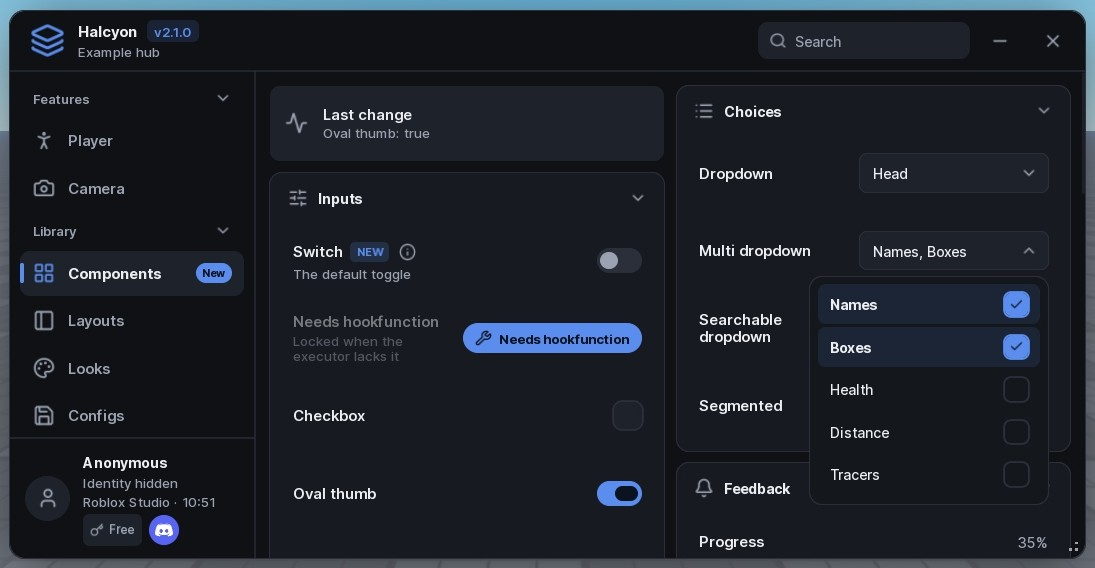
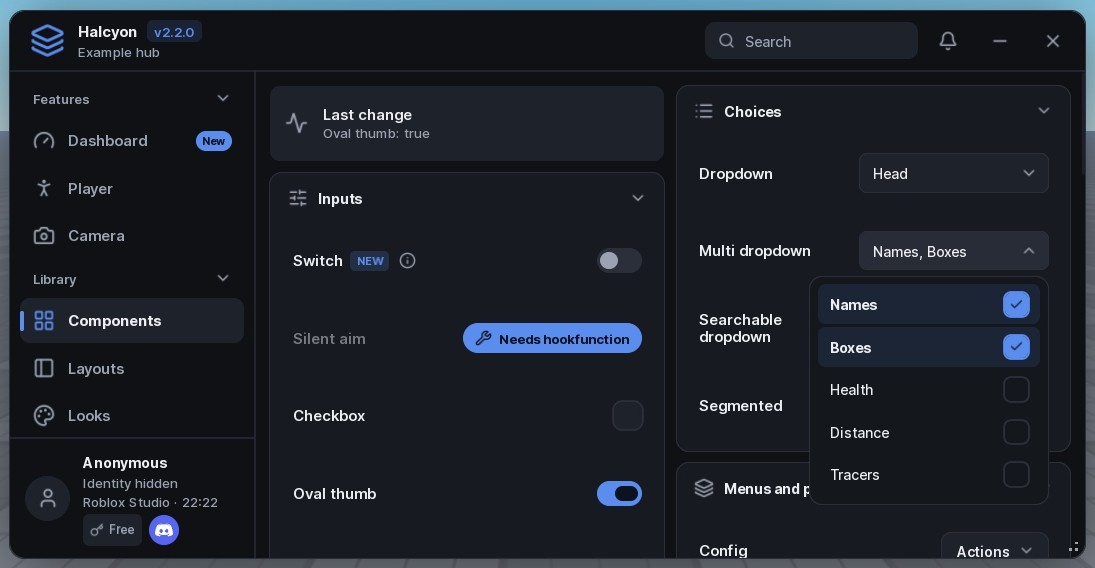
Document 2.2 and retake the screenshots
README gains a table of every switch, a section on header styles, and
links to each icon pack's site so names are easy to look up. The API
reference, styles page and LLM files cover the new elements, sheets,
the quick bar and the notice changes. The hero shot is now the
Dashboard tab, and there is a new one of the Sidebar header.

diff --git a/README.md b/README.md
@@ -1,8 +1,8 @@
 # Halcyon
 
-A UI library for Roblox script hubs. One file, loaded with `loadstring`, that gives you a window with tabs, sections and 27 controls, a named look for every one of them, presets, a key system with tiers, saved configs, sixteen themes the player can extend, six icon packs, and a layout that reflows from a desktop monitor down to a phone.
+A UI library for Roblox script hubs. One file, loaded with `loadstring`, that gives you a window with tabs, sections and 37 controls, a named look for every one of them, presets, a key system with tiers, saved configs, sixteen themes the player can extend, six icon packs, and a layout that reflows from a desktop monitor down to a phone. Every built-in part turns on or off with `true` or `false`.
 
-![The Halcyon example hub](assets/hero.jpg)
+![The Halcyon example hub on its Dashboard tab](assets/hero.jpg)
 
 Docs and a tour of every look: https://scriptsfordays.github.io/Halcyon-Docs/ (the site has [its own repo](https://github.com/ScriptsForDays/Halcyon-Docs), so this one stays all Luau).
 
@@ -15,6 +15,8 @@ loadstring(game:HttpGet("https://raw.githubusercontent.com/ScriptsForDays/Halcyo
 ```
 
 The example opens on its key prompt. **Keyless** needs no key; the demo keys are `HALCYON-FREE` and `HALCYON-PAID`.
+
+No executor to hand? The same example runs in your browser at https://scriptsfordays.github.io/Halcyon-Docs/play.html. It runs the real library code in a Luau runtime and draws it with HTML, so spacing and fonts can differ a little from Roblox.
 
 ## Use it
 
@@ -61,10 +63,12 @@ Window:LoadAutoload() -- loads the config the player marked, if any
 | | |
 |---|---|
 | **Looks** | Every control has named looks: 10 toggles, 7 sliders, 8 buttons with 7 effects, 4 inputs, 4 dropdowns, 7 sections, 6 tab markers, 4 window surfaces, 7 open animations, 10 notices. Pick per element, per window, or with a preset (Classic, Minimal, Glass, Neon, Compact) |
-| **Controls** | Button (hold to confirm, press twice, loading and done states), Buttons in a row, Toggle, Slider (prefix, percent, ticks, range), Dropdown (icons, descriptions, headings, player lists, chips, inline), Radio, Checklist, Chips, Tiles, Input (password, multi-line, counter, clear), Keybind (mode picker), ColorPicker (palette, recent, copy), DatePicker, Segmented, Stepper, Rating, Progress, Status, Countdown, Table, Accordion, Paragraph, callout Labels, Divider, Code, Image, Space |
-| **Layout** | Four navigation styles, tabs inside sections, a header switch per section, sections that scroll past a height, `ShowWhen` dependencies, page headers and notices, one or two columns, collapsible sections and sidebar groups, three ways to minimise, edge snapping |
+| **Controls** | Button (hold to confirm, press twice, loading and done states), Buttons in a row, MenuButton, Toggle, Slider (prefix, percent, ticks, range), Dropdown (icons, descriptions, headings, player lists, chips, inline), List (pick, multi-pick, search, drag to reorder), Tags, Radio, Checklist, Chips, Tiles, Input (password, multi-line, counter, clear), Keybind (mode picker), ColorPicker (palette, recent, copy), DatePicker, Segmented, Stepper, Rating, Progress, Status, Countdown, Table, Accordion, Paragraph, callout Labels, Divider, Code, Image, Space, Link |
+| **Dashboards** | Stat tiles and grids, live line, area and bar graphs, a log panel with level filters, a player list with your own row buttons, image banners |
+| **Layout** | Four navigation styles, four header styles (one puts a big logo above the sidebar), tabs inside sections, a header switch per section, two or three controls on one line, side sheets, sections that scroll past a height, page headers and notices, one or two columns, collapsible sections and sidebar groups, three ways to minimise, edge snapping |
+| **Switches** | Every built-in part on or off with `true` or `false`, live with `Window:Set`; any tab, section or row hidden, greyed or tied to another control with `Visible`, `Disabled`, `ShowWhen` and `EnableWhen` |
 | **Key system** | Tiers such as Free and Paid, or your own; listed keys, your own validator or your own server; ad-service confirmation for free keys; saved keys with an expiry countdown; rows and whole sections locked to a tier or to paid keys |
-| **Feedback** | Ten notice looks with buttons and an optional chime, hover tips on any row, one-time spotlights on new features, dialogs with countdown buttons, a Ctrl+K command palette, a watermark and keybind list in several looks |
+| **Feedback** | Ten notice looks with buttons and an optional chime; notices pause while hovered, swipe away, and keep a history behind a bell. Hover tips on any row, right-click menus on any row, one-time spotlights on new features, dialogs with countdown buttons, a Ctrl+K command palette, a watermark, a keybind list and a floating quick bar |
 | **For hub code** | A real-progress loading screen, a What's new card shown once per version, an About section, empty and error states, a lock screen, row badges and info tips, `Requires`, tab badges, a config section, a two-step unload |
 | **Saving** | Configs for every flagged control, autoload, and the player's own interface choices |
 | **Personalisation** | Players pick font, text size, corners, spacing, window transparency, notice position, a gradient accent and colour-blind-friendly status colours, and build, save and share their own themes |
@@ -74,30 +78,82 @@ Window:LoadAutoload() -- loads the config the player marked, if any
 
 ![The Components tab with a multi dropdown open](assets/controls.jpg)
 
-## Turning things on and off
+## Every switch
 
-Most features are one option. Leave it out for the default, or set it to `false`:
+Each built-in part is one option. Leave it out for the default, set it to `false` to leave the part out, or `true` to add it. Some take a table of settings in place of `true`.
+
+```lua
+local Window = Halcyon:CreateWindow({
+	Title = "My Hub",
+	Search = false,
+	Close = false,
+	NotificationCenter = true,
+	Watermark = true,
+	KeybindList = { Style = "Glass" },
+	SettingsTab = { Group = "Hub" },
+})
+
+Window:Set("Search", true) -- flip a switch while the hub runs
+print(Window:Get("Shadow")) --> true
+```
+
+| Switch | Default | What it controls |
+|---|---|---|
+| `Search` | on | The search box |
+| `Profile` | on | The profile card. A table sets its options |
+| `ShowVersion` | on | The version tag beside the title |
+| `Minimize` | on | The minimise button. `Minimizable` still works |
+| `Close` | on | The close button |
+| `Resize` | on | The resize grip. `Resizable` still works |
+| `Drag` | on | Dragging the window by its top bar |
+| `Shadow` | on | The soft shadow under the window |
+| `Tooltips` | on | Hover tips on rows |
+| `Animations` | on | Motion. Off is the same as reduced motion |
+| `Blur` | off | Blurs the game behind the open window. A number sets how much |
+| `CommandPalette` | off | Ctrl+K search over every tab and setting |
+| `NotificationCenter` | off | A bell in the top bar with an unread count and the notices so far |
+| `Watermark` | off | A small bar with the title, executor and time. A table picks the fields |
+| `KeybindList` | off | A list of bound keys and which are active |
+| `SettingsTab` | off | The ready-made settings tab |
+| `Snap` | off | Snapping the window to screen edges |
+| `OpenButton` | off | A round button to reopen the hidden window on desktop. Phones always get it |
+
+These are read when the window is made: `Icon`, `TopbarImage` and `Logo` (`false` leaves the picture out), `CollapsibleGroups`, `SliderTooltips`, `ToggleOutline`, `ConfirmUnload`, `LockShimmer`, `FocusRing` and `SavePreferences`. `Halcyon:GetSwitches()` lists every name `Window:Set` takes.
+
+Tabs, sections and rows have switches of their own:
+
+```lua
+Tab:Toggle({ Title = "Silent aim", Visible = false }) -- made, but hidden
+Tab:Slider({ Title = "Radius", Disabled = true }) -- greyed out
+Tab:Slider({ Title = "Fly speed", ShowWhen = "Fly" }) -- shown while the Fly toggle is on
+Tab:Dropdown({ Title = "Target", EnableWhen = { "Mode", "Manual" } }) -- usable while Mode is "Manual"
+Window:Tab({ Title = "Admin", ShowWhen = "AdminMode" })
+```
+
+`Window:SettingsTab({ Accent = false, Scale = false, Unload = false })` leaves rows out of the settings tab. The full list of options is in [docs/api.md](docs/api.md).
+
+## Headers and logos
+
+`HeaderStyle` decides where the title and logo go:
+
+| HeaderStyle | Layout |
+|---|---|
+| `Bar` (default) | The top bar: icon or picture, title, subtitle and version tag |
+| `Tall` | A taller top bar with a larger picture beside the title |
+| `Wordmark` | A wide logo image in place of the title words |
+| `Sidebar` | A big logo at the top of the sidebar with search under it, and no top bar. The logo drags the window |
 
 ```lua
 Halcyon:CreateWindow({
-	Title = "My Hub",
-	ShowVersion = false, -- no version tag beside the title
-	Shadow = false, -- no soft shadow under the window
-	ButtonEffect = "None", -- or "Sweep" (default), "Ripple", "Lift", "Glow"
-	Search = false, -- no search box
-	Profile = false, -- no profile card
-	Resizable = false, -- no resize grip
-	Minimizable = false, -- no minimise button
-	CollapsibleGroups = false, -- sidebar group headings do not fold
-	SliderTooltips = false, -- no value bubble while dragging a slider
-	ToggleOutline = false, -- no outline around a toggle on hover
-	SavePreferences = false, -- do not remember the player's interface choices
+	Title = "Butter",
+	HeaderStyle = "Sidebar",
+	Logo = "rbxassetid://1234567", -- any image source, or { Image, Text, Icon, Height }
 })
-
-Window:SettingsTab({ Accent = false, Scale = false, Unload = false }) -- leave rows out of the Settings tab
 ```
 
-The full list is in [docs/api.md](docs/api.md).
+Without an image, `Logo` draws the title as a large wordmark, so it works in Studio and on executors without `getcustomasset`. `Logo = false`, `Icon = false` and `TopbarImage = false` leave each picture out. On a narrow window the `Sidebar` style moves the logo back into a top bar. The example's **Looks** tab can rebuild the hub in each style.
+
+![The Sidebar header style, with the logo above the tabs](assets/headers.jpg)
 
 ## Looks and presets
 
@@ -119,7 +175,7 @@ The example's **Looks** tab lists every look with the line that turns it on, and
 
 | | |
 |---|---|
-| ![Toggle and slider looks](assets/looks-controls.jpg) | ![Dropdown looks and the panels list](assets/looks-choices.jpg) |
+| ![Toggle and slider looks](assets/looks-controls.jpg) | ![Dropdown looks, tabs inside a section and a header switch](assets/looks-choices.jpg) |
 | ![Glass preset with Mac controls](assets/looks-glass.jpg) | ![Island, Accent, Achievement and Snackbar notices](assets/looks-notices.jpg) |
 | ![Command palette](assets/looks-palette.jpg) | ![Personalise section](assets/looks-personalise.jpg) |
 | ![What's new card](assets/looks-changelog.jpg) | ![Loading screen](assets/looks-loading.jpg) |
@@ -183,15 +239,26 @@ Any `Icon` takes a Lucide name. Prefix a pack to use another set:
 ```lua
 Icon = "rocket" -- Lucide
 Icon = "solar:rocket-bold" -- Solar
-Icon = "geist:arrow-up" -- Geist; also craft:, gravity:, sfsymbols:
+Icon = "geist:arrow-up" -- Geist
 Icon = 123456789 -- your own asset id
 ```
 
-143 Lucide icons ship inside the library and draw at once. The full packs load on first use and are cached on disk. More in [docs/icons.md](docs/icons.md).
+Each set's own site is the place to find names:
+
+| Pack | Prefix | Browse it at |
+|---|---|---|
+| Lucide | none, or `lucide:` | [lucide.dev/icons](https://lucide.dev/icons/) |
+| Solar | `solar:` | [icones.js.org/collection/solar](https://icones.js.org/collection/solar). Add the style to the name: `home-bold`, `home-linear` |
+| Geist | `geist:` | [vercel.com/geist/icons](https://vercel.com/geist/icons) |
+| Gravity UI | `gravity:` | [gravity-ui.com/icons](https://gravity-ui.com/icons) |
+| Craft | `craft:` | [Craft Icons on Figma](https://www.figma.com/community/file/1415718327120418204). Add the style to the name: `rocket-stroke` |
+| SF Symbols | `sfsymbols:` | [Apple's SF Symbols app](https://developer.apple.com/sf-symbols/). Names are camelCase: `house.and.flag.fill` is `houseAndFlagFill` |
+
+The Roblox uploads of every pack come from [Footagesus/Icons](https://github.com/Footagesus/Icons), which lists the exact names in each one. 143 Lucide icons ship inside the library and draw at once; the rest of Lucide and the other packs load on first use and are cached on disk. More in [docs/icons.md](docs/icons.md).
 
 ## Phones and small screens
 
-Below 560 px of window width the sidebar becomes a strip of tabs, two columns fold into one, and wide controls drop under their titles. Touch targets grow to 40 px or more, and text never goes below 12 px. Nothing is hover-only.
+Below 560 px of window width the sidebar becomes a strip of tabs, two columns fold into one, wide controls drop under their titles, and the top-bar search folds into its magnifier until pressed. Touch targets grow to 40 px or more, and text never goes below 12 px. Nothing is hover-only: row menus open on a long press as well as a right-click.
 
 <img src="assets/mobile.jpg" alt="Halcyon at phone width" width="360">
 

diff --git a/docs/llm-guide.md b/docs/llm-guide.md
@@ -32,10 +32,18 @@ Only then pick controls. A hub with six features needs six or so rows plus setti
 | A key the player picks | Keybind, or a Toggle's `Keybind` add-on | The add-on keeps the key beside the feature it controls |
 | A colour | ColorPicker, or a Toggle's `Color` add-on | Same reason |
 | Read-only state | Status, Progress, Countdown, Label | Nothing to press, so don't make it look pressable |
+| Read-only figures (FPS, coins per hour) | Stat, or Stats for several | Big numbers read at a glance; labels in a row don't |
+| A number's recent history | Graph | A trend is the point; one number hides it |
+| What the hub did, line by line | Log | Notices vanish; a log can be scrolled, filtered and copied |
 | Read-only rows of data | Table | Labels in a loop can't sort or align |
+| Picks the player should see without opening anything, or an order | List (`Reorder` for priorities) | A Dropdown hides the choices; toggles per item waste rows |
+| Words the player types and keeps (a whitelist) | Tags | An Input holds one value; Tags hold a list |
+| Something to do to a player | PlayerList with `Actions` | Picking a name in a Dropdown and then pressing a button is two steps |
+| A few actions on one thing | MenuButton, or a row's `Menu` | Five buttons for one config crowd the section |
+| An address to open elsewhere | Link | Roblox can't open browsers; Link copies and says so |
 | Help and explanations | `Info` on the row, Accordion, Paragraph | Keep long text out of row descriptions |
 
-A row description is one short line about what the feature does or a caveat ("Applied again after every respawn"). If you need a paragraph, use `Info` or an Accordion.
+A row description is one short line about what the feature does or a caveat ("Kept after respawning"). If you need a paragraph, use `Info` or an Accordion. Don't write descriptions that explain the control itself ("Turn this on to enable flying"); the title and the switch already say it.
 
 ## 3. Organise tabs and sections
 
@@ -47,6 +55,8 @@ A row description is one short line about what the feature does or a caveat ("Ap
 - **Two columns:** use `Side = "Right"` when two sections are peers on the same tab. Don't use it to balance heights artificially; on phones everything stacks in creation order anyway, so put the more important section first.
 - **Order rows by frequency of use:** the main switch first, its tuning after it. Pair a feature's tuning with `ShowWhen` so options appear only when they apply (a Speed slider shown only while Fly is on). This keeps the page short without hiding anything permanently.
 - **Lock rather than remove.** If a feature needs a paid key or an executor function, keep the row and lock it (`PaidOnly`, `Tier`, `Requires`). Players then know it exists and why they can't use it.
+- **Short pairs share a line.** `Section:Group({ Columns = 2 })` fits two short toggles side by side (Auto farm / Auto sell). Keep sliders, lists and long titles on their own lines.
+- **A feature with many settings** can keep its main switch on the tab and its tuning in a `Window:Sheet`, opened by a button beside it, so the page stays short.
 
 ## 4. Decide what to save
 
@@ -96,7 +106,11 @@ Unless the developer asks for it, leave out:
 - `UpdateLog`, `Changelog` and `Loading`, unless the hub has releases or a real setup phase to show;
 - `CommandPalette` and `Snap`, unless the hub is large (Ctrl+K pays off at around 30+ rows);
 - Personalise and the theme builder, which are optional extras in Settings;
-- Watermark and KeybindList, which are overlays some players dislike. Offer them as Settings toggles rather than forcing them on.
+- Watermark and KeybindList, which are overlays some players dislike. Offer them as Settings toggles rather than forcing them on;
+- `NotificationCenter` and `Blur`, unless the hub sends notices worth reading later or the developer wants the blur;
+- a QuickBar, unless the hub targets phones and has two or three features players flip constantly.
+
+To remove a built-in part the developer doesn't want, set its switch to `false` (`Search = false`, `Close = false`) rather than hiding instances.
 
 ## 10. Examples of over-building, and the fix
 

diff --git a/docs/styles.md b/docs/styles.md
@@ -45,8 +45,9 @@ The example hub's **Looks** tab shows every look side by side, each with the lin
 | `Dropdown` | Box, Minimal, Chips, Inline | `Styles.Dropdown` |
 | `Keybind` | Chip, Keycap, Brackets | `Styles.Keybind` |
 | `Label` | Plain, Info, Success, Warning, Danger, Note | each label's `Style` |
-| `Section` | Card, Outlined, Flat, Glass, Accent, Inset, Header | `SectionStyle` |
-| `TabIndicator` | Bar, Pill, Underline, Dot, Glow, Fill | `TabIndicator` |
+| `Section` | Card, Outlined, Flat, Glass, Accent, Inset, Header, Panel | `SectionStyle` |
+| `TabIndicator` | Bar, Pill, Underline, Dot, Glow, Fill, Text | `TabIndicator` |
+| `Header` | Bar, Tall, Wordmark, Sidebar | `HeaderStyle` |
 | `Navigation` | Sidebar, Rail, Top, Dock | `TabStyle` |
 | `Window` | Solid, Glass, Gradient, Image | `WindowStyle` |
 | `Open` | Pop, Zoom, Rise, Drop, Slide, Unroll, None | `OpenAnimation` |
@@ -59,6 +60,10 @@ The example hub's **Looks** tab shows every look side by side, each with the lin
 | `UpdateLog` | Timeline, Cards, Compact | `UpdateLog.Style` |
 | `Watermark` | Card, Pill, Accent, Minimal | the watermark's `Style` |
 | `KeybindList` | Card, Glass, Minimal | the list's `Style` |
+| `Stat` | Card, Plain | `Styles.Stat` |
+| `Graph` | Line, Area, Bars | `Styles.Graph` |
+
+`Panel` puts each of a section's rows on its own inset card. The `Text` tab marker colours the open tab's words and icon with no fill behind them. The header looks are described in [api.md](api.md#header-styles).
 
 ### Your own looks
 

diff --git a/docs/icons.md b/docs/icons.md
@@ -13,12 +13,12 @@ Anything that takes an `Icon` accepts:
 
 | Prefix | Set | Names |
 |---|---|---|
-| `lucide:` (default) | [Lucide](https://lucide.dev/icons) | `house`, `chevron-down`, `circle-alert` |
-| `solar:` | [Solar](https://icon-sets.iconify.design/solar/) | name plus style: `home-bold`, `home-linear`, `home-bold-duotone` |
+| `lucide:` (default) | [Lucide](https://lucide.dev/icons/) | `house`, `chevron-down`, `circle-alert` |
+| `solar:` | [Solar](https://icones.js.org/collection/solar) | name plus style: `home-bold`, `home-linear`, `home-bold-duotone` |
 | `geist:` | [Geist](https://vercel.com/geist/icons) | `accessibility`, `arrow-up` |
-| `craft:` | Craft | name plus style: `rocket-stroke` |
+| `craft:` | [Craft Icons](https://www.figma.com/community/file/1415718327120418204) | name plus style: `rocket-stroke` |
 | `gravity:` | [Gravity UI](https://gravity-ui.com/icons) | `alarm`, `alarm-fill` |
-| `sfsymbols:` | SF Symbols | camelCase: `house`, `houseAndFlagFill` |
+| `sfsymbols:` | [SF Symbols](https://developer.apple.com/sf-symbols/) | camelCase: `house`, `houseAndFlagFill` |
 
 The Roblox uploads of these sets come from [Footagesus/Icons](https://github.com/Footagesus/Icons) (MIT). Browse that repository for the exact names in each pack.
 
